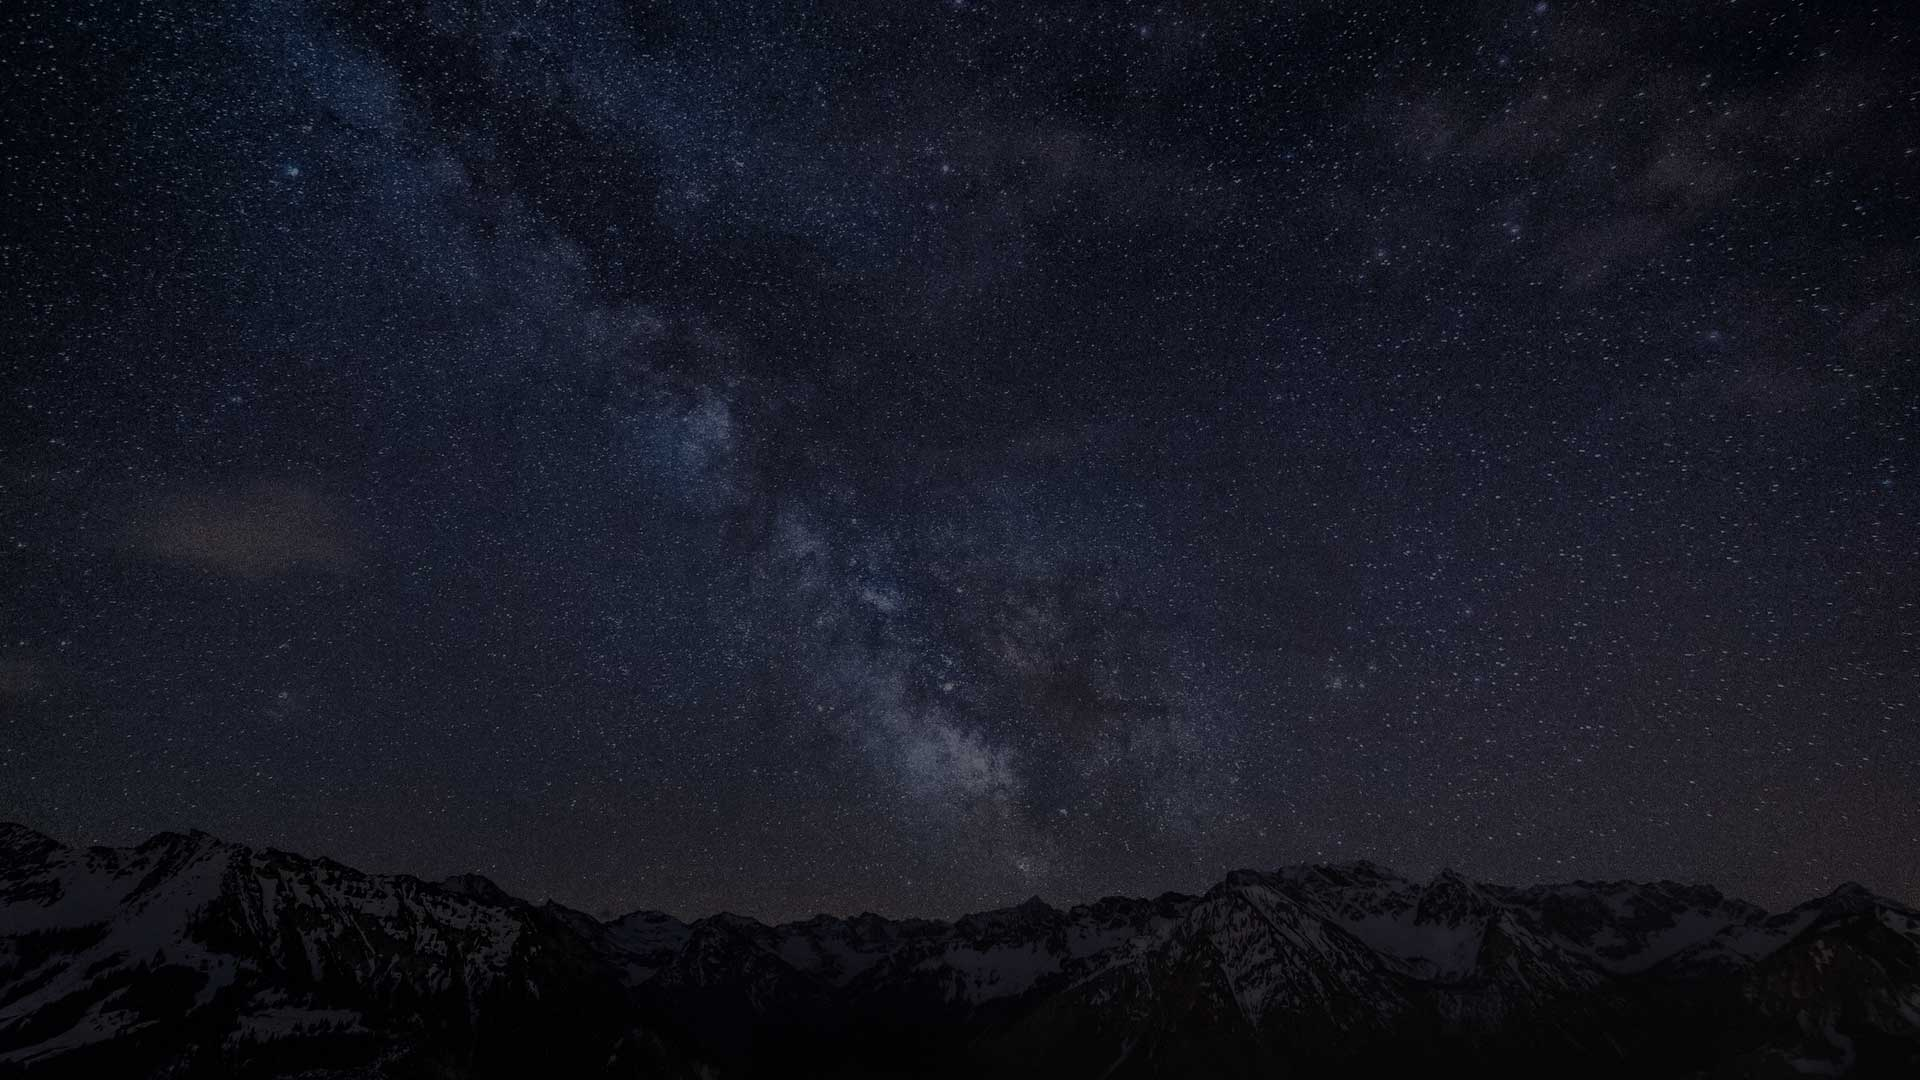
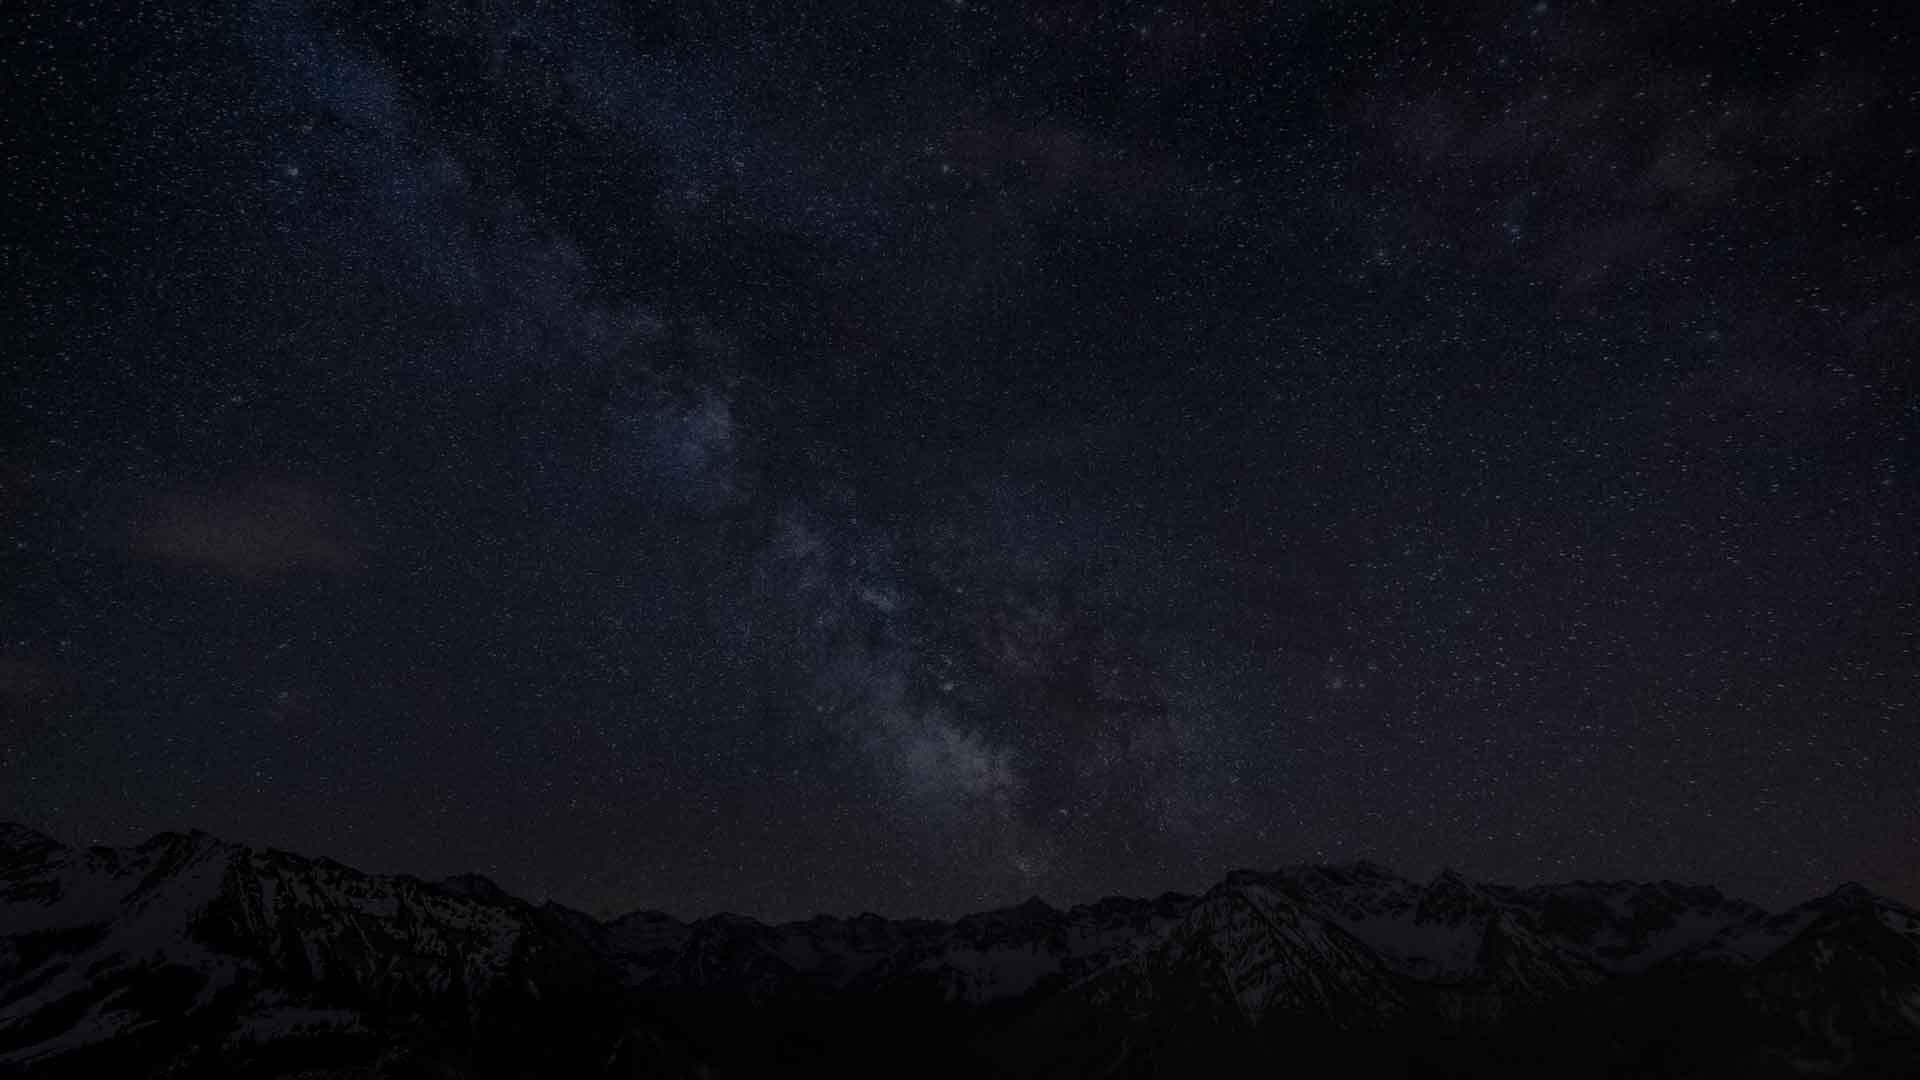
bg image updates

diff --git a/client/stylesheets/themes/dark.scss b/client/stylesheets/themes/dark.scss
@@ -1,13 +1,18 @@
 @import '../variables';
 
 .dark-theme {
-  background: $gray-darker;
   color: $light;
-  background: url("/images/night-sky.jpg") no-repeat center center fixed;
+  background-image: url("/images/night-sky-alt.jpg");
+  background-position: center center;
+  background-repeat: no-repeat;
+  background-attachment: fixed;
+  background-size: cover;
+  background-color: $gray-darker;
   -webkit-background-size: cover;
   -moz-background-size: cover;
   -o-background-size: cover;
   background-size: cover;
+  //background: url(background-photo.jpg) center center cover no-repeat fixed;
 
   @media (min-width: $tablet-width) {
     background: url("/images/night-sky-desktop.jpg") no-repeat center center fixed;

diff --git a/client/stylesheets/main.scss b/client/stylesheets/main.scss
@@ -3,6 +3,7 @@
 body {
 	font-family: $font-family-serif;
 	line-height: $space-medium;
+	overflow-x: hidden;
 
 	p, li {
 		font-size: $font-size-base + $font-size-atomic;
